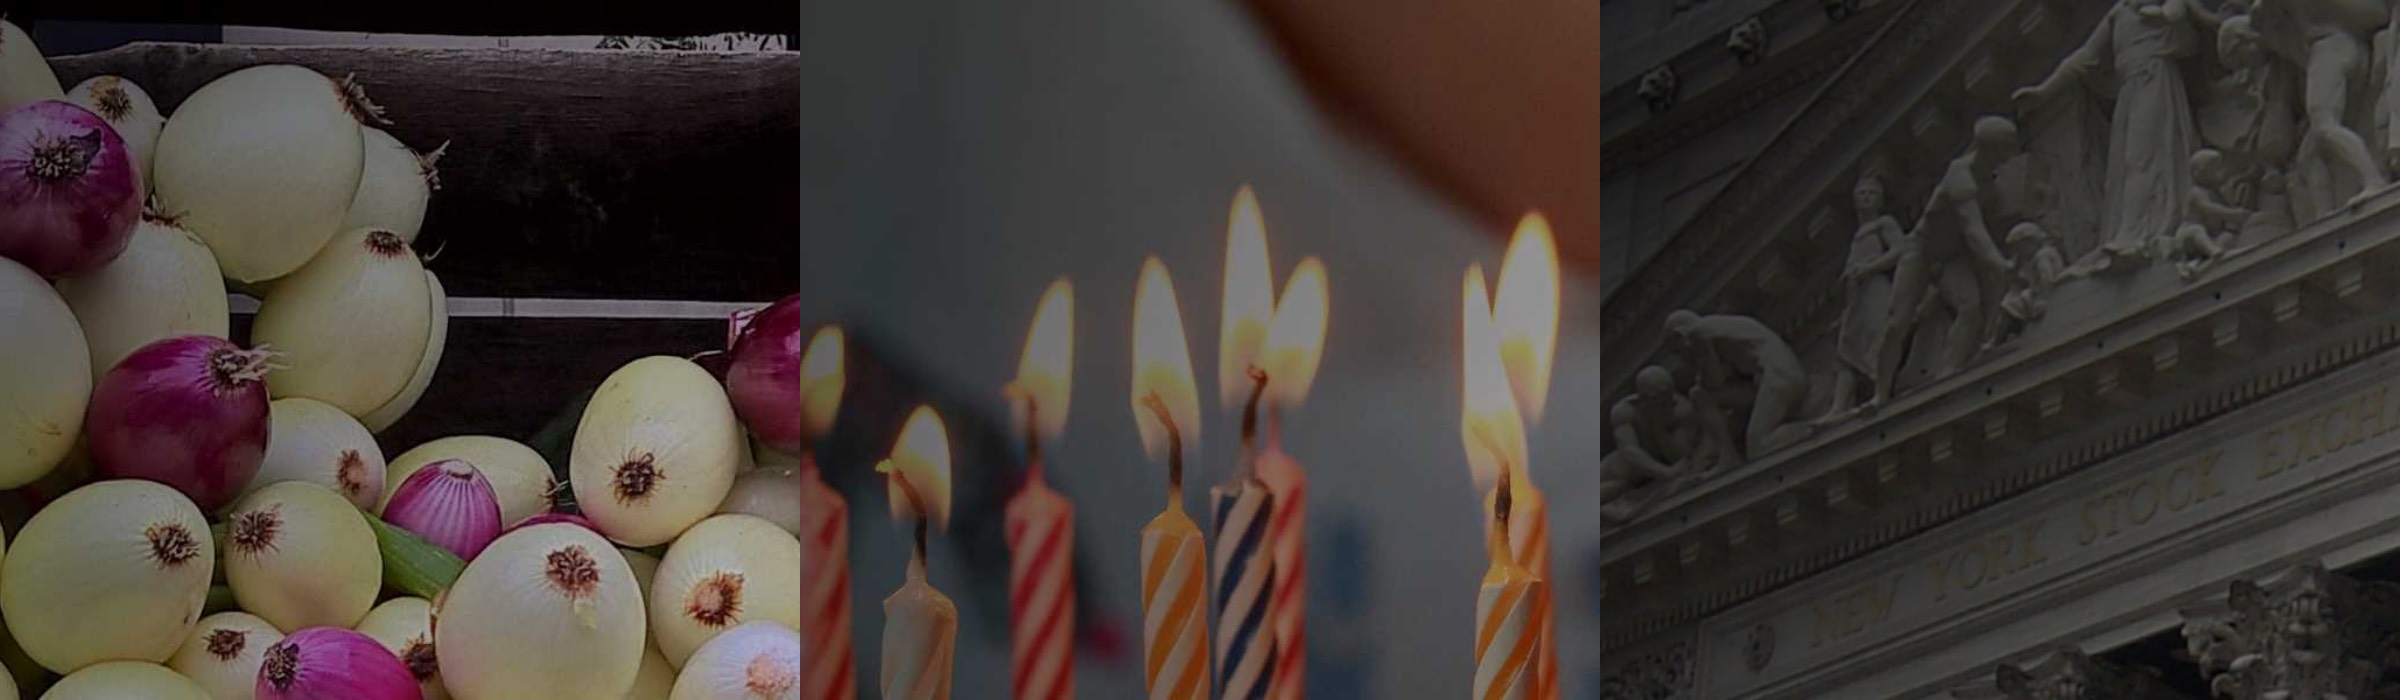
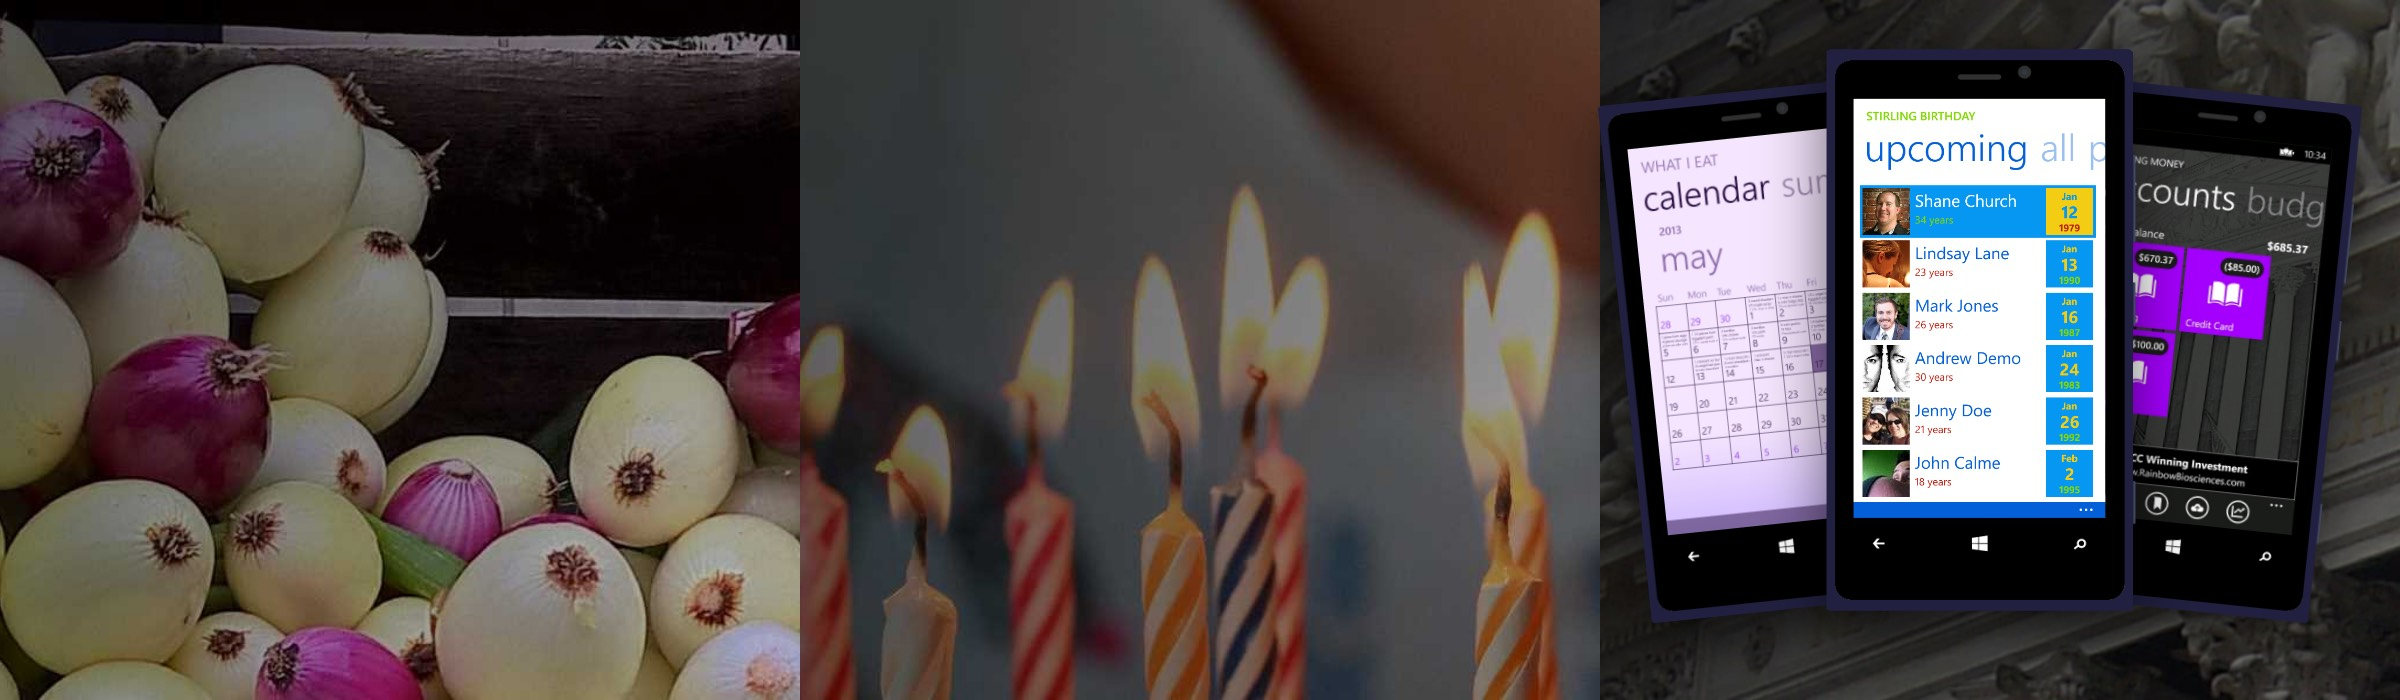
Add Windows Phone app screenshots to Older Projects slide background

Changed region(s): [[0.6562, 0.06, 1.0, 0.9]]

diff --git a/themes/shane/source/css/style.css b/themes/shane/source/css/style.css
@@ -1421,7 +1421,7 @@ Resume Timeline
 }
 
 .gallery-cell.older-projects {
-  background: url("../../images/older-projects-home-bg.jpg") no-repeat center
+  background: url("../../images/older-projects-home-bg.jpg") no-repeat right
     center;
   background-size: cover;
 }
